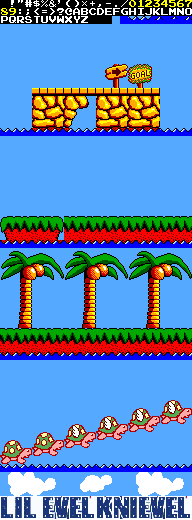
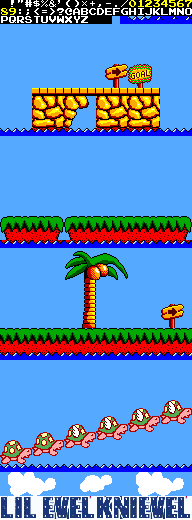
no message

diff --git a/TurtleBridge/tilesNew/20-NewGraphicsTestingIMG2/ScreenShotTest/Object/Output01.cs b/TurtleBridge/tilesNew/20-NewGraphicsTestingIMG2/ScreenShotTest/Object/Output01.cs
@@ -44,8 +44,8 @@ namespace ScreenShotTest
 			int y = 0;
 
 			// Asset #0.
-			//DrawAsset(spriteBatch, AssetType.x00_font_tiles_yellow_192x24_05, 0, y);
-			DrawAsset(spriteBatch, AssetType.x00_font_tiles_yellow_192x24_06, 0, y);
+			DrawAsset(spriteBatch, AssetType.x00_font_tiles_yellow_192x24_05, 0, y);
+			//DrawAsset(spriteBatch, AssetType.x00_font_tiles_yellow_192x24_06, 0, y);
 
 			// Asset #1.
 			y += 24;
@@ -57,15 +57,21 @@ namespace ScreenShotTest
 
 			// Asset #2.
 			y += 112;
-			DrawAsset(spriteBatch, AssetType.x02_section03_norm_64x32, 0, y);
-			DrawAsset(spriteBatch, AssetType.x02_section03_open_64x32_02, 64, y);
-			DrawAsset(spriteBatch, AssetType.x02_section03_open_64x32_03, 128, y);
+			//DrawAsset(spriteBatch, AssetType.x02_section03_norm_64x32, 0, y);
+			//DrawAsset(spriteBatch, AssetType.x02_section03_open_64x32_02, 64, y);
+			//DrawAsset(spriteBatch, AssetType.x02_section03_open_64x32_03, 128, y);
+			DrawAsset(spriteBatch, AssetType.islands01, 0, y);
+			DrawAsset(spriteBatch, AssetType.islands02, 64, y);
+			DrawAsset(spriteBatch, AssetType.islands03, 128, y);
 
 			// Asset #3.
 			y += 112;
-			DrawAsset(spriteBatch, AssetType.x03_section03_tree_64x32_01, 0, y);
-			DrawAsset(spriteBatch, AssetType.x03_section03_tree_64x32_02, 64, y);
-			DrawAsset(spriteBatch, AssetType.x03_section03_tree_64x32_03, 128, y);
+			DrawAsset(spriteBatch, AssetType.islands04, 0, y);
+			DrawAsset(spriteBatch, AssetType.islands05, 64, y);
+			DrawAsset(spriteBatch, AssetType.islands06, 128, y);
+			//DrawAsset(spriteBatch, AssetType.x03_section03_tree_64x32_01, 0, y);
+			//DrawAsset(spriteBatch, AssetType.x03_section03_tree_64x32_02, 64, y);
+			//DrawAsset(spriteBatch, AssetType.x03_section03_tree_64x32_03, 128, y);
 
 			// Asset #4.
 			y += 112;

diff --git a/TurtleBridge/tilesNew/20-NewGraphicsTestingIMG2/ScreenShotTest/Manager/AssetManager.cs b/TurtleBridge/tilesNew/20-NewGraphicsTestingIMG2/ScreenShotTest/Manager/AssetManager.cs
@@ -28,6 +28,12 @@ namespace ScreenShotTest
 			"04-hover_turtleAA00_32x24_01",
 			"05-clouds_192x24",
 			"06-titlescreenPlay",
+			"islands01",
+			"islands02",
+			"islands03",
+			"islands04",
+			"islands05",
+			"islands06",
 		};
 
 		protected int[] heights = { 0 };

diff --git a/TurtleBridge/tilesNew/20-NewGraphicsTestingIMG2/ScreenShotTest/AnGame.cs b/TurtleBridge/tilesNew/20-NewGraphicsTestingIMG2/ScreenShotTest/AnGame.cs
@@ -7,7 +7,7 @@ namespace ScreenShotTest
 {
 	public class AnGame : Microsoft.Xna.Framework.Game
 	{
-		const string name = "bggame_tiles01";
+		const string name = "bggame_tiles00";
 
 		GraphicsDeviceManager graphics;
 		SpriteBatch spriteBatch;

diff --git a/TurtleBridge/tilesNew/20-NewGraphicsTestingIMG2/ScreenShotTest/Manager/EnumManager.cs b/TurtleBridge/tilesNew/20-NewGraphicsTestingIMG2/ScreenShotTest/Manager/EnumManager.cs
@@ -27,6 +27,13 @@
 
 		x05_clouds_192x24 = 18,
 		x06_titlescreenPlay = 19,
+
+		islands01 = 20,
+		islands02 = 21,
+		islands03 = 22,
+		islands04 = 23,
+		islands05 = 24,
+		islands06 = 25,
 	}
 
 }
